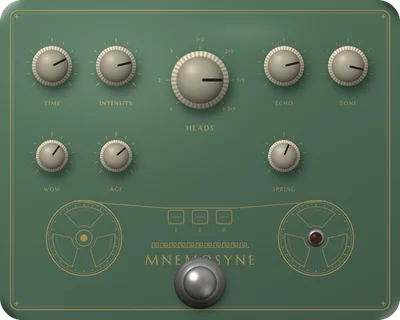
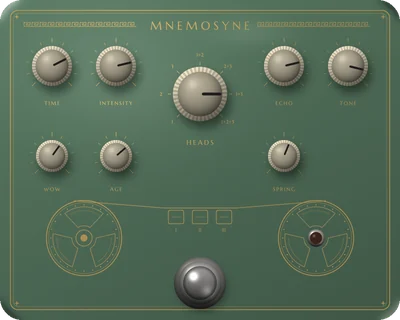
Mnemosyne: title moved to the top so the footswitch doesn't hide it
Claude-Session: https://claude.ai/code/session_01VkZHgtY9ZZf8oLUZY6NxF7

diff --git a/visuals/tools/art_mnemosyne.py b/visuals/tools/art_mnemosyne.py
@@ -6,14 +6,14 @@ spec = {'size': [10.0, 8.0, 3.2], 'px': 200, 'res': [1170, 936], 'lens': 40, 'ca
         'enclosure': {'color': [0.08, 0.16, 0.10], 'metal': 0.35, 'rough': 0.38, 'coat': 0.55, 'bump': ['noise', 600, 0.04]},
         'engrave': {'rough': 0.26, 'metal': 1.0, 'depth': 1.0, 'strength': 0.5, 'distance': 0.015}, 'glow_strength': 1.4,
         'knobs': [{'at': [x, 330], 'r': 0.5, 'style': 'cream', 'v': v} for x, v in ((260, 0.4), (580, 0.45), (1420, 0.45), (1740, 0.55))]
-                 + [{'at': [1000, 400], 'r': 0.72, 'style': 'cream', 'v': 0.5, 'selector': True}]
+                 + [{'at': [1000, 470], 'r': 0.68, 'style': 'cream', 'v': 0.5, 'h': 0.6, 'selector': True}]
                  + [{'at': [x, 780], 'r': 0.4, 'style': 'cream', 'v': v} for x, v in ((260, 0.3), (580, 0.35), (1420, 0.25))],
         'leds': [{'at': [1580, 1190], 'color': [1.0, 0.35, 0.2], 'strength': 24}],
         'footswitches': [[1000, 1415, 1.05]], 'screws': [], 'rimcolor': [0.9, 1.0, 0.85]}
 P = Plate(PW, PH); frame(P, INK, inset=50, r=40)
 controls(P, spec, INK, ['TIME', 'INTENSITY', 'ECHO', 'TONE', None, 'WOW', 'AGE', 'SPRING'])
-selector_labels(P, 1000, 400, 0.72, ['1', '2', '3', '1+2', '2+3', '1+3', '1+2+3'], INK, size=24, gap=36)
-label(P, 1000, 640, 'HEADS', INK, 34, spacing=8)
+selector_labels(P, 1000, 470, 0.68, ['1', '2', '3', '1+2', '2+3', '1+3', '1+2+3'], INK, size=24, gap=36)
+label(P, 1000, 712, 'HEADS', INK, 34, spacing=8)
 for x in (420, 1580): reel(P, x, 1190, 190, INK)
 # tape path over the reels and across the three heads
 P.line([(420 - 190 * 0.25, 1190 - 186), (860 - 40, 1040)], INK, 3); P.line([(1580 + 190 * 0.25, 1190 - 186), (1140 + 40, 1040)], INK, 3)
@@ -22,6 +22,7 @@ for i, x in enumerate((880, 1000, 1120)):
     P.rrect((x - 40, 1050, x + 40, 1120), 10, INK, 3)
     P.line([(x - 22, 1085), (x + 22, 1085)], INK, 1.4)
     P.text((x, 1150), ['I', 'II', 'III'][i], 'marc', 24, INK)
-meander(P, 1215, 760, 1250, INK, s=22)
-P.text((1000, 1300), 'MNEMOSYNE', 'marc', 66, INK, spacing=16)
+P.text((1000, 128), 'MNEMOSYNE', 'marc', 58, INK, spacing=16)
+tw = text_width(P, 'MNEMOSYNE', 'marc', 58, 16)
+meander(P, 112, 120, 1000 - tw / 2 - 40, INK, s=20); meander(P, 112, 1000 + tw / 2 + 40, 1880, INK, s=20)
 P.save_as(KEY, glow_spots(PW, PH, [(1580, 1190, 50, (255, 120, 80, 120))], 18)); write_spec(KEY, spec)
